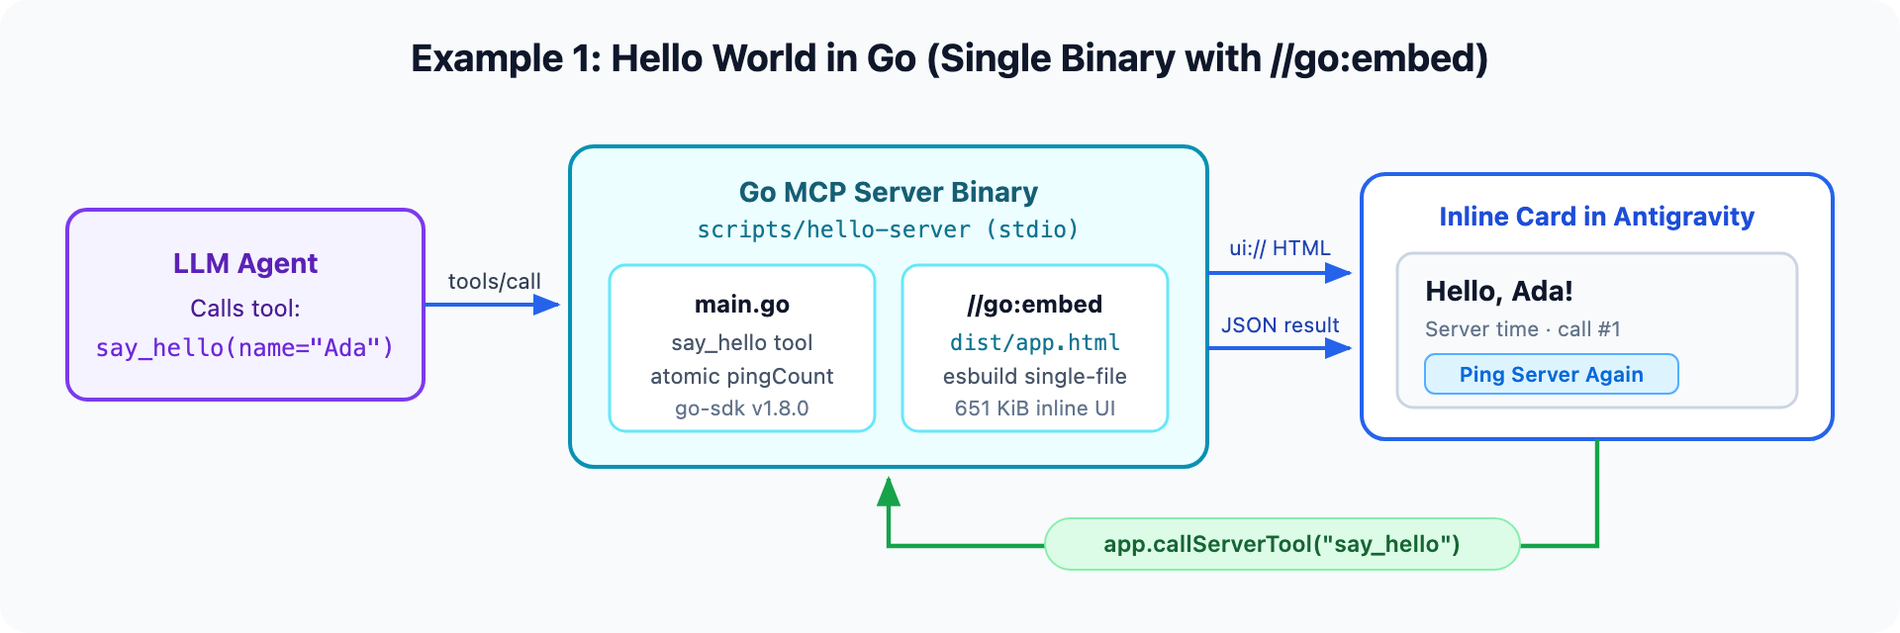
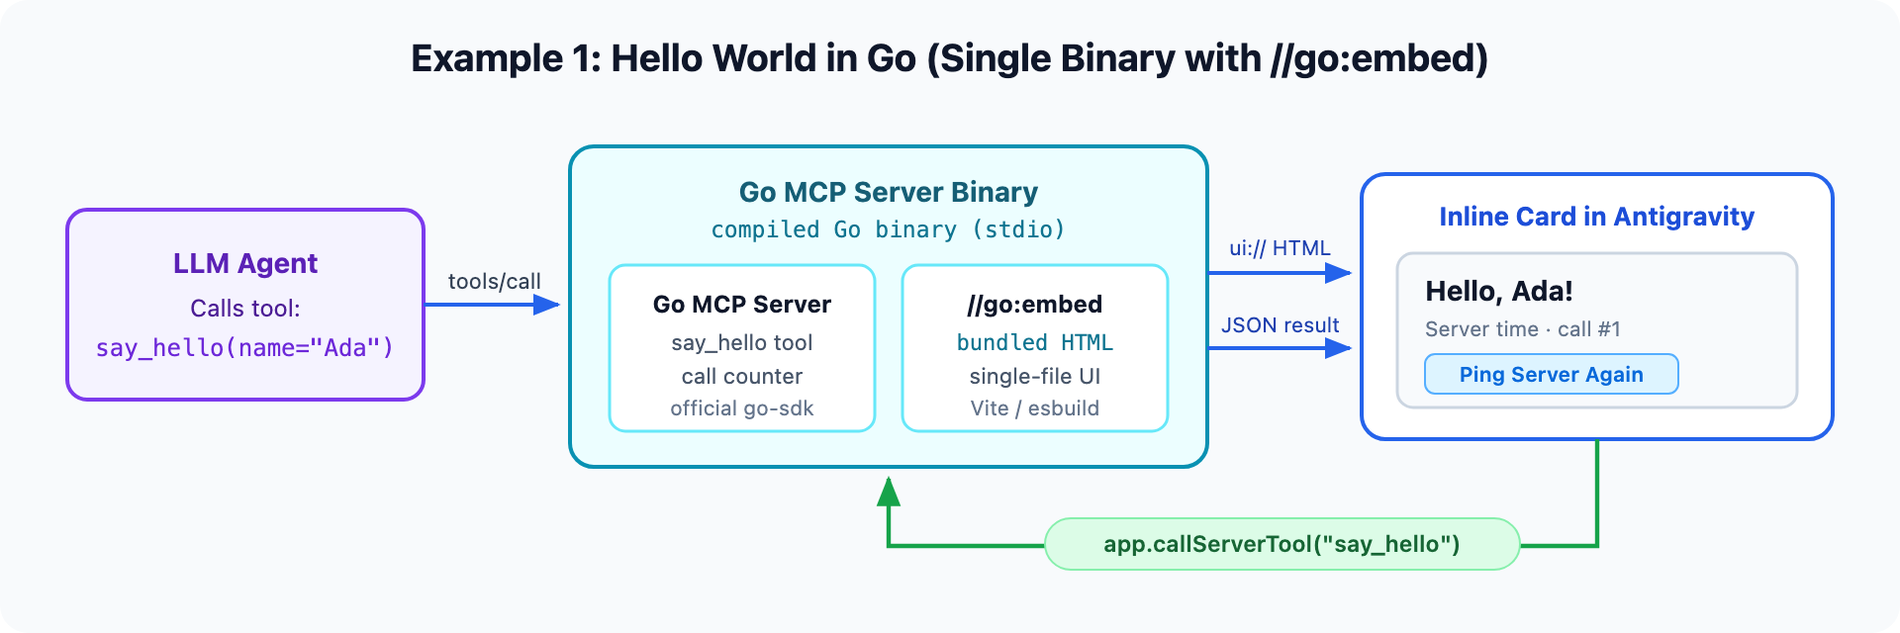
Make blog post and diagrams generic and prompt-first without repo references

diff --git a/BLOG_POST.md b/BLOG_POST.md
@@ -10,14 +10,7 @@ Suggested Titles:
 ![MCP Apps in Google Antigravity — Overview Infographic](images/00_mcp_apps_hero_infographic.png)
 *MCP Apps in Google Antigravity at a glance: how tools pair with ui:// views, what /mcp-app-development scaffolds, the two Go examples in this guide, and key rules to keep in mind.*
 
-> **No prior MCP Apps experience required.** This guide walks through the basics of the MCP Apps specification (SEP-1865), how the `/mcp-app-development` command works in Google Antigravity, and how to build, test, and package two inline MCP Apps in **Go**—starting with a small Hello World card and expanding it into an interactive checklist.
->
-> **Companion Repository:** All source code, tests, plugin manifests, and diagrams for this post live at [github.com/rominirani/antigravity-mcp-apps-guide](https://github.com/rominirani/antigravity-mcp-apps-guide).
-
-```bash
-git clone https://github.com/rominirani/antigravity-mcp-apps-guide.git
-cd antigravity-mcp-apps-guide
-```
+> **No prior MCP Apps experience required.** This guide walks through the basics of the MCP Apps specification (SEP-1865), how the `/mcp-app-development` command works in Google Antigravity, and how to scaffold, inspect, and install two inline MCP Apps in **Go**—starting with a small Hello World card and expanding it into an interactive checklist.
 
 ---
 
@@ -25,10 +18,10 @@ cd antigravity-mcp-apps-guide
 
 1. **[Why MCP Apps Exist](#1-why-mcp-apps-exist)** — Where text-only MCP tools run into friction, and how MCP Apps compare to plain tools and `/generative_ui`.
 2. **[MCP Apps Basics](#2-mcp-apps-basics)** — The four-part mental model behind every MCP App.
-3. **[Using `/mcp-app-development` in Antigravity](#3-using-mcp-app-development-in-antigravity)** — How the slash command scaffolds an MCP App for you, and why Go is a nice fit.
-4. **[Example 1: Hello World in Go (`01-hello-world`)](#4-example-1-hello-world-in-go)** — Scaffolding your first inline greeting card with a live button that calls back into your Go server.
-5. **[Example 2: Interactive Quick Checklist (`02-quick-checklist`)](#5-example-2-interactive-quick-checklist)** — Adding UI-only actions, server-side persistence, and a button that attaches checklist progress to your next prompt.
-6. **[Packaging & Iterating as an Antigravity Plugin](#6-packaging--iterating-as-an-antigravity-plugin)** — One Go-specific plugin config tip and a quick edit-rebuild loop.
+3. **[Using `/mcp-app-development` in Antigravity](#3-using-mcp-app-development-in-antigravity)** — How the slash command scaffolds an MCP App for you, why Go is a nice fit, and what to have installed first.
+4. **[Example 1: Hello World in Go](#4-example-1-hello-world-in-go)** — Scaffolding your first inline greeting card with a live button that calls back into your Go server.
+5. **[Example 2: Interactive Quick Checklist](#5-example-2-interactive-quick-checklist)** — Adding UI-only actions, server-side persistence, and a button that attaches checklist progress to your next prompt.
+6. **[Packaging & Iterating as an Antigravity Plugin](#6-packaging--iterating-as-an-antigravity-plugin)** — One Go-specific plugin config quirk to watch for and a quick edit-rebuild loop.
 7. **[Common Issues & Things to Try](#7-common-issues--things-to-try)** — A short troubleshooting table and a few small ideas to experiment with next.
 8. **[Going Deeper: Suggested Reading Order](#8-going-deeper-suggested-reading-order)** — Where to read next, in order, when you are ready to explore the rest of the MCP Apps standard.
 
@@ -94,15 +87,15 @@ By default, an MCP App renders **inline** right inside the chat stream in place 
 Go is a clean fit for local MCP App plugins:
 
 1. **Official Go SDK**: [`github.com/modelcontextprotocol/go-sdk`](https://github.com/modelcontextprotocol/go-sdk) infers tool input schemas straight from Go structs and automatically serializes your output struct for the UI.
-2. **Single-binary packaging with `//go:embed`**: Once the frontend is bundled into `dist/app.html`, `//go:embed dist/app.html` bakes it into your compiled Go binary—so users don't need Node.js or Python installed at runtime.
+2. **Single-binary packaging with `//go:embed`**: Once the frontend is bundled into a single HTML file, `//go:embed` bakes it straight into your compiled Go binary—so end users don't need Node.js or Python installed at runtime.
 
 ### Prerequisites
 
 Before running `/mcp-app-development`, make sure the following tools are installed on the machine running Antigravity so the agent can bundle, compile, and test what it generates:
 
 - **Google Antigravity App (`v2.34.0+`)** and the **`agy` CLI** — provides `/mcp-app-development`, renders inline MCP Apps, and validates/installs local plugins.
-- **Go (`1.25+`)** — compiles and tests the Go MCP servers. *(If you ask `/mcp-app-development` for a Node/TypeScript or Python server instead, install that runtime instead of Go.)*
-- **Node.js (`20+`) and `npm` (build-time only)** — needed on your development machine even for a Go MCP App so `esbuild` can bundle `ui/app.js` and `@modelcontextprotocol/ext-apps` into one self-contained `dist/app.html` file. Once `go build` embeds that HTML into the binary, Node.js is not required at runtime.
+- **Go (`1.24+`)** — compiles and tests the Go MCP servers. *(If you ask `/mcp-app-development` for a Node/TypeScript or Python server instead, install that runtime instead of Go.)*
+- **Node.js (`20+`) and `npm` (build-time only)** — needed on your development machine even for a Go MCP App so the generated build step (typically Vite + `vite-plugin-singlefile` or `esbuild`) can bundle your frontend code and `@modelcontextprotocol/ext-apps` into one self-contained HTML file. Once `go build` embeds that HTML into the binary, Node.js is not required at runtime.
 
 *(Python is not needed for the Go examples in this post.)*
 
@@ -110,9 +103,7 @@ Before running `/mcp-app-development`, make sure the following tools are install
 
 ## 4. Example 1: Hello World in Go
 
-> **Companion Code:** [`go-examples/01-hello-world/`](https://github.com/rominirani/antigravity-mcp-apps-guide/tree/main/go-examples/01-hello-world)
-
-Let's start with the simplest useful MCP App: **1 tool (`say_hello`)** and **1 embedded UI resource (`ui://hello-world/app.html`)**.
+Let's start with the simplest useful MCP App: **1 tool (`say_hello`)** linked to **1 embedded `ui://` HTML view**.
 
 When the agent calls `say_hello(name="Ada")`, Antigravity renders a themed greeting card inline showing the server timestamp and call count. Clicking **Ping Server Again** inside the card calls `say_hello` directly on the Go server, updating the timestamp and count without another LLM turn.
 
@@ -121,103 +112,76 @@ When the agent calls `say_hello(name="Ada")`, Antigravity renders a themed greet
 
 ### Step 1: Scaffold the App with `/mcp-app-development`
 
-Start by creating an empty folder (for example, `hello-mcp-app/`) and opening it as a project in the **Antigravity App**. Type `/` in the chat box, choose **`mcp-app-development`**, and describe what you want in plain language:
+Create an empty folder (for example, `hello-mcp-app/`) and open it as a project in the **Antigravity App**. Type `/` in the chat box, choose **`mcp-app-development`**, and describe what you want in plain language:
 
 ```text
 /mcp-app-development Build a simple Hello World MCP App in Go packaged as an Antigravity plugin. Add a say_hello tool that takes an optional name and renders an inline greeting card showing the server time, a call counter, and a "Ping Server Again" button that refreshes from the server.
 ```
 
-Notice you don't need to mention `ui://` URIs, MIME types, bundlers, or plugin manifest keys—the `/mcp-app-development` skill supplies those conventions automatically. Your generated file names or frontend bundler may differ slightly from the reference project in [`go-examples/01-hello-world/`](https://github.com/rominirani/antigravity-mcp-apps-guide/tree/main/go-examples/01-hello-world), which is completely fine—the MCP Apps wiring underneath is the same:
+Notice you don't need to mention `ui://` URIs, MIME types, bundlers, or plugin manifest keys—the `/mcp-app-development` skill supplies those conventions automatically.
 
-```text
-go-examples/01-hello-world/
-├── go.mod
-├── main.go               # Go MCP server (~115 lines) with //go:embed dist/app.html
-├── main_test.go          # In-memory MCP client/server test
-├── ui/
-│   ├── package.json      # @modelcontextprotocol/ext-apps + esbuild
-│   ├── app.js            # Vanilla JS frontend (~55 lines)
-│   └── build.mjs         # Bundles ui/app.js + CSS into ../dist/app.html
-├── plugin.json           # Antigravity plugin manifest
-├── mcp_config.json       # Launches the compiled Go binary
-└── assets/logo.svg       # Plugin icon
-```
+As it runs, Antigravity will scaffold the Go server, a frontend project (usually TypeScript with Vite + `vite-plugin-singlefile`, or Vanilla JS with `esbuild`), Go tests, `plugin.json`, and `mcp_config.json`—and will typically run the build, tests, and `agy plugin validate --strict .` for you. Exact folder layouts vary from run to run (for example, a standard `cmd/` + `internal/` Go layout with a `Makefile`, or a flatter single-file `main.go`), which is completely expected.
 
-### Step 2: What to Look For in `main.go`
+### Step 2: What to Verify in the Generated Go Server
 
-You don't need to write the boilerplate from scratch—just open the generated `main.go` (full file: [`go-examples/01-hello-world/main.go`](https://github.com/rominirani/antigravity-mcp-apps-guide/blob/main/go-examples/01-hello-world/main.go)) and verify the three MCP Apps wiring points:
+Rather than expecting a specific filename, look inside the generated Go server code (for example `internal/server/server.go` or `main.go`) and confirm the three MCP Apps wiring points are in place:
 
 ```go
-//go:embed dist/app.html
+// 1. Embed the compiled single-file HTML bundle inside the Go binary.
+//go:embed dist/index.html
 var embeddedAppHTML string
 
-// 1. Serve the bundled HTML as a ui:// resource with the MCP App MIME type.
+// 2. Expose it as a ui:// resource with the MCP App MIME type.
 server.AddResource(&mcp.Resource{
-	URI:      "ui://hello-world/app.html",
+	URI:      appURI, // e.g., "ui://hello-world/card.html"
 	MIMEType: "text/html;profile=mcp-app",
 }, readAppHTMLHandler)
 
-// 2. Link say_hello to that resource via _meta.ui.resourceUri.
+// 3. Link say_hello to that resource via _meta.ui.resourceUri.
 mcp.AddTool(server, &mcp.Tool{
 	Name: "say_hello",
-	Meta: mcp.Meta{"ui": map[string]any{"resourceUri": "ui://hello-world/app.html"}},
-}, func(ctx context.Context, req *mcp.CallToolRequest, in HelloInput) (*mcp.CallToolResult, HelloOutput, error) {
-	out := HelloOutput{Name: name, Greeting: greeting, ServerTime: now, PingCount: count}
-	res := &mcp.CallToolResult{Content: []mcp.Content{&mcp.TextContent{Text: summary}}}
-	return res, out, nil // Go SDK marshals `out` into structuredContent automatically
-})
+	Meta: mcp.Meta{"ui": map[string]any{"resourceUri": appURI}},
+}, sayHelloHandler)
 ```
 
-`CallToolResult.Content` provides the short plain-text fallback for the LLM and CLI clients, while the returned `HelloOutput` struct becomes `structuredContent` for the iframe.
+Inside the tool handler, `CallToolResult.Content` provides the short plain-text summary for the LLM and CLI clients, while the returned Go output struct is serialized automatically into `structuredContent` for the iframe.
 
-### Step 3: What to Look For in `ui/app.js`
+### Step 3: What to Verify in the Generated Frontend
 
-Similarly, in the generated frontend (full file: [`go-examples/01-hello-world/ui/app.js`](https://github.com/rominirani/antigravity-mcp-apps-guide/blob/main/go-examples/01-hello-world/ui/app.js)), the only MCP Apps–specific logic is connecting the `App` bridge in the right order:
+Next, look inside the generated frontend entry file (typically `ui/src/main.ts` or `ui/app.js`). Regardless of whether Antigravity chose TypeScript with Vite or Vanilla JS with `esbuild`, the MCP Apps bridge follows the same three-step sequence:
 
-```js
+```ts
 import { App, applyDocumentTheme, applyHostStyleVariables } from "@modelcontextprotocol/ext-apps";
 
 const app = new App({ name: "Hello MCP App", version: "1.0.0" }, {});
 
-// 1. Register handlers BEFORE calling app.connect().
-app.ontoolresult = (result) => render(result?.structuredContent);
-app.onhostcontextchanged = applyTheme;
+// 1. Register tool & theme listeners BEFORE calling app.connect().
+app.addEventListener("toolresult", (result) => render(result.structuredContent));
+app.addEventListener("hostcontextchanged", applyTheme);
 
 // 2. Call back into the Go server directly on button click.
 refreshBtn.addEventListener("click", async () => {
   const result = await app.callServerTool({ name: "say_hello", arguments: { name: currentName } });
-  render(result?.structuredContent);
+  render(result.structuredContent);
 });
 
-// 3. Complete the handshake and sync the host's light/dark theme.
+// 3. Complete the handshake and sync the host's Light/Dark theme.
 await app.connect();
 applyTheme(app.getHostContext());
 ```
 
-In the full file, `render()` writes values safely with `textContent` (never `innerHTML`), hides the refresh button if a host doesn't support tool callbacks, and [`ui/build.mjs`](https://github.com/rominirani/antigravity-mcp-apps-guide/blob/main/go-examples/01-hello-world/ui/build.mjs) uses `esbuild` to bundle everything into `dist/app.html`.
+*(Depending on the SDK style Antigravity picks, you may see `app.ontoolresult = ...` instead of `app.addEventListener("toolresult", ...)`—both work identically. Also check that DOM updates use `textContent` rather than `innerHTML` so user input is never interpreted as HTML.)*
 
-### Step 4: Build, Test & Try It in Antigravity
+### Step 4: Validate, Install & Try It in Antigravity
 
-Because the iframe UI runs in the browser and imports `@modelcontextprotocol/ext-apps` from npm, `npm` is used once at **build time** to bundle `ui/app.js` and its CSS into `dist/app.html`. Once `go build` embeds that file into `scripts/hello-server`, Node.js is no longer needed at runtime.
+In most runs, `/mcp-app-development` builds the single-file UI, compiles the Go binary, and runs the tests for you (often exposing `make build` / `make test` in a generated `Makefile`). From the project folder, confirm strict plugin validation and install the plugin locally:
 
 ```bash
-cd go-examples/01-hello-world
-
-# 1. Build-time only: bundle ui/app.js + @modelcontextprotocol/ext-apps into dist/app.html
-npm --prefix ui install
-npm --prefix ui run build
-
-# 2. Test and compile the standalone Go binary (embeds dist/app.html)
-go mod tidy
-go test -v ./...
-mkdir -p scripts && go build -o scripts/hello-server .
-
-# 3. Validate and install the Antigravity plugin
 agy plugin validate --strict .
 agy plugin install .
 ```
 
-You should see the Go test pass (`PASS`) and plugin validation print `✔ Validation passed`. Then open a chat in the **Antigravity App** and ask:
+Then open a chat in the **Antigravity App** and ask:
 
 ```text
 Greet Ada using the say_hello tool.
@@ -229,13 +193,11 @@ You should see the inline greeting card appear directly in chat, and clicking **
 
 ## 5. Example 2: Interactive Quick Checklist
 
-> **Companion Code:** [`go-examples/02-quick-checklist/`](https://github.com/rominirani/antigravity-mcp-apps-guide/tree/main/go-examples/02-quick-checklist)
-
 Once Hello World makes sense, a natural next question is: *how do I build an inline UI that manages real state and feeds updates back into my conversation?*
 
-Example 2 stays on the same **Go + `//go:embed`** stack and adds **three capabilities**:
+Example 2 stays on the same **Go + `//go:embed`** pattern and adds **three capabilities**:
 
-1. **UI-only tools (`visibility: ["app"]`)**: The model only sees `create_checklist`. Toggling or adding items stays hidden from the model while remaining callable directly from the card.
+1. **UI-only tools (`visibility: ["app"]`)**: The model only sees `create_checklist`. Actions like toggling, adding, removing, or reloading items stay hidden from the model while remaining callable directly from the card.
 2. **Server-side persistence (`PLUGIN_DATA`)**: Because browser storage in the iframe isn't permanent, the Go server writes every change immediately to Antigravity's per-plugin data directory (`PLUGIN_DATA`).
 3. **Attaching UI state to your next prompt (`updateModelContext`)**: Clicking **Attach Remaining Items to Prompt** puts a context pill on your next chat message so the agent knows which checklist items are done and which remain.
 
@@ -244,17 +206,17 @@ Example 2 stays on the same **Go + `//go:embed`** stack and adds **three capabil
 
 ### Step 1: Scaffold Quick Checklist with `/mcp-app-development`
 
-Open a fresh folder (for example, `quick-checklist/`) in the **Antigravity App** and describe the app naturally:
+Open a fresh empty folder (for example, `quick-checklist/`) in the **Antigravity App** and describe the app naturally:
 
 ```text
 /mcp-app-development Build an inline checklist MCP App in Go packaged as an Antigravity plugin. Let the agent create a checklist with a title and items; inside the card, let me check off items, add new ones, keep my progress across restarts, and click a button to attach the remaining items to my next chat prompt.
 ```
 
-Once Antigravity finishes scaffolding, walk through the two key additions it generated (full reference: [`go-examples/02-quick-checklist/`](https://github.com/rominirani/antigravity-mcp-apps-guide/tree/main/go-examples/02-quick-checklist)).
+Antigravity will typically generate one model-facing `create_checklist` tool, several `app_*` UI-only helper tools (for toggling, adding, removing, and reloading persisted checklist state after a restart), disk persistence under `PLUGIN_DATA`, and the bundled interactive UI.
 
-### Step 2: What to Look For in `main.go`
+### Step 2: What to Verify in the Generated Go Server
 
-In [`go-examples/02-quick-checklist/main.go`](https://github.com/rominirani/antigravity-mcp-apps-guide/blob/main/go-examples/02-quick-checklist/main.go), the model-facing tool points to `resourceUri`, while the UI-only helper tools set `visibility: ["app"]`:
+In the generated Go server code, look for the split between the model-facing tool (`resourceUri`) and the UI-only helper tools (`visibility: ["app"]`):
 
 ```go
 // Visible to the model: creates a checklist and opens the inline card.
@@ -265,50 +227,34 @@ mcp.AddTool(server, &mcp.Tool{
 
 // Hidden from the model in UI hosts; callable only from the checklist card.
 mcp.AddTool(server, &mcp.Tool{
-	Name: "app_toggle_item",
+	Name: "app_toggle_item", // exact helper names vary per run
 	Meta: mcp.Meta{"ui": map[string]any{"visibility": []string{"app"}}},
 }, toggleHandler)
 ```
 
-On startup, `main()` reads `os.Getenv("PLUGIN_DATA")` (set automatically by Antigravity to a writable folder outside your workspace) and persists every edit to `checklists.json` immediately.
+Also verify that the server reads Antigravity's persistent data directory—either via `os.Getenv("PLUGIN_DATA")` or a `--data-dir=${PLUGIN_DATA}` flag passed from `mcp_config.json`—and saves edits to disk immediately on every change.
 
-### Step 3: What to Look For in `ui/app.js`
+### Step 3: What to Verify in the Generated Frontend
 
-In [`go-examples/02-quick-checklist/ui/app.js`](https://github.com/rominirani/antigravity-mcp-apps-guide/blob/main/go-examples/02-quick-checklist/ui/app.js), clicking **Attach Remaining Items to Prompt** calls `app.updateModelContext()` with a plain-text summary (and clicking **Clear Context** passes an empty `content` array). The button is hidden automatically if the host doesn't advertise context support:
+In the generated UI code, look for the click handler that calls `app.updateModelContext()` with a plain-text summary of remaining items (and passes an empty `content: []` array to clear it), gated on `app.getHostCapabilities()?.updateModelContext`:
 
-```js
+```ts
 attachBtn.addEventListener("click", async () => {
-  const remaining = checklist.items.filter((i) => !i.done).map((i) => `- [ ] ${i.label}`);
-
   await app.updateModelContext({
-    content: [
-      {
-        type: "text",
-        text: `Checklist: ${checklist.title} (${checklist.doneCount}/${checklist.total} complete)\n` +
-              (remaining.length ? `Remaining:\n${remaining.join("\n")}` : "All items complete."),
-      },
-    ],
+    content: [{ type: "text", text: formatRemainingSummary(checklist) }],
   });
 });
 
-clearCtxBtn.addEventListener("click", () => app.updateModelContext({ content: [] }));
+clearBtn.addEventListener("click", () => app.updateModelContext({ content: [] }));
 ```
 
-### Step 4: Build, Test & Try It in Antigravity
+*(One subtle detail you may notice in the generated UI: because the sandbox's default CSP blocks `<form>` submissions, the input row typically uses a plain container with a `<button type="button">` and an `Enter` key listener rather than a `<form>` tag.)*
+
+### Step 4: Validate, Install & Try It in Antigravity
+
+Once Antigravity finishes building and testing the generated project, validate and install it from the project folder:
 
 ```bash
-cd go-examples/02-quick-checklist
-
-# 1. Build-time only: bundle the frontend UI into dist/app.html
-npm --prefix ui install
-npm --prefix ui run build
-
-# 2. Test and compile the standalone Go binary (embeds dist/app.html)
-go mod tidy
-go test -v ./...
-mkdir -p scripts && go build -o scripts/checklist-server .
-
-# 3. Validate and install the Antigravity plugin
 agy plugin validate --strict .
 agy plugin install .
 ```
@@ -319,7 +265,7 @@ Then try it in an Antigravity App conversation:
 Create a PR review checklist for this repository using create_checklist.
 ```
 
-Check off a couple of items in the inline card, click **Attach Remaining Items to Prompt**, and send a follow-up message—you will see the attached checklist summary appear as a context pill on your prompt.
+Check off a couple of items in the inline card, click the button to attach remaining items, and send a follow-up message—you will see the attached checklist summary appear as a context pill on your prompt.
 
 ---
 
@@ -329,14 +275,16 @@ Check off a couple of items in the inline card, click **Attach Remaining Items t
 
 ### Launching a Compiled Go Binary in `mcp_config.json`
 
-Antigravity expands `${PLUGIN_ROOT}` and `${PLUGIN_DATA}` inside `args`, `env`, and `cwd`—not inside `command`. If you put `"command": "${PLUGIN_ROOT}/scripts/hello-server"`, `agy plugin validate --strict` flags a warning. Invoke the binary via `"command": "env"` instead (and place binaries under `scripts/` so executable permissions are preserved):
+Antigravity expands `${PLUGIN_ROOT}` and `${PLUGIN_DATA}` inside `args`, `env`, and `cwd`—not inside `command`. If `mcp_config.json` puts `"command": "${PLUGIN_ROOT}/bin/my-server"`, `agy plugin validate --strict` flags a warning.
+
+To keep strict validation clean, launch your compiled Go binary through `args`—either with a small executable shell wrapper (using `exec` so stdio passes straight through) or via `"command": "env"`:
 
 ```json
 {
   "mcpServers": {
     "hello": {
-      "command": "env",
-      "args": ["${PLUGIN_ROOT}/scripts/hello-server"]
+      "command": "bash",
+      "args": ["${PLUGIN_ROOT}/scripts/launch.sh"]
     }
   }
 }
@@ -344,8 +292,8 @@ Antigravity expands `${PLUGIN_ROOT}` and `${PLUGIN_DATA}` inside `args`, `env`, 
 
 ### Quick Edit-Rebuild Loop
 
-- **Editing HTML/JS/CSS**: Re-run `npm --prefix ui run build`. If you set `HELLO_APP_HTML` (or `CHECKLIST_APP_HTML`) to point at `dist/app.html` during development, closing and reopening the card picks up the updated UI without recompiling Go or restarting the server.
-- **Editing Go server code**: Recompile (`go build -o scripts/hello-server .`), then restart the server from **Customizations > Installed > \<plugin\> > MCP > More actions (`⋮`) > Restart** in the Antigravity App.
+- **Editing the UI**: Re-run the generated UI build command (for example `make build`, or `npm run build` inside `ui/`). Many generated servers also support an environment variable override (such as `HELLO_APP_HTML`) pointing directly at the built HTML file on disk—when set, closing and reopening the card picks up UI edits without recompiling Go or restarting the server.
+- **Editing Go server code**: Recompile the binary (for example `make build` or `go build`), then restart the server from **Customizations > Installed > \<plugin\> > MCP > More actions (`⋮`) > Restart** in the Antigravity App.
 
 ---
 
@@ -356,18 +304,18 @@ Antigravity expands `${PLUGIN_ROOT}` and `${PLUGIN_DATA}` inside `args`, `env`, 
 | Symptom | Likely Cause | Fix |
 | :--- | :--- | :--- |
 | **Error card instead of UI** | Wrong MIME type or missing UI resource. | Return `text/html;profile=mcp-app` from `server.AddResource`. |
-| **Blank iframe** | `app.connect()` failed, or external scripts/styles were blocked by the sandbox. | Bundle JS and CSS inline into one HTML file (`dist/app.html`). |
-| **Card stays stuck on "Connecting..."** | Event handlers were registered after `await app.connect()`. | Register `ontoolresult` and `onhostcontextchanged` before `app.connect()`. |
+| **Blank iframe** | `app.connect()` failed, or external scripts/styles were blocked by the sandbox. | Bundle JS and CSS inline into a single self-contained HTML file. |
+| **Card stays stuck on "Connecting..."** | Event handlers were registered after `await app.connect()`. | Register `toolresult` / `ontoolresult` and `hostcontextchanged` before `app.connect()`. |
 | **Button callback fails** | Tool is hidden from the UI or belongs to another server. | Set `visibility: ["app"]` (or omit `visibility`) on the same MCP server. |
-| **Colors look wrong after Light/Dark toggle** | Host theme was only applied once at startup. | Apply host theme both after `connect()` and inside `onhostcontextchanged`. |
-| **`agy plugin validate --strict` warns on `command`** | `${PLUGIN_ROOT}` was placed in `command` instead of `args`. | Use `"command": "env"` and `"args": ["${PLUGIN_ROOT}/scripts/<binary>"]`. |
+| **Colors look wrong after Light/Dark toggle** | Host theme was only applied once at startup. | Apply host theme both after `connect()` and inside `hostcontextchanged`. |
+| **`agy plugin validate --strict` warns on `command`** | `${PLUGIN_ROOT}` was placed in `command` instead of `args`. | Launch the binary through `args` (e.g., `"command": "bash"` with a launcher script, or `"command": "env"`). |
 
 ### Things to Try Next
 
-1. **Add a delete button to Quick Checklist**: Ask `/mcp-app-development` to add an app-only delete action to [`go-examples/02-quick-checklist/`](https://github.com/rominirani/antigravity-mcp-apps-guide/tree/main/go-examples/02-quick-checklist) with a remove button next to each item.
+1. **Extend your checklist card**: Ask `/mcp-app-development` inside your checklist folder to add filtering (*All / Remaining / Completed*) or a clear-completed button backed by an app-only tool.
 2. **Send a follow-up prompt directly from the card**: Add an **Ask Agent About Remaining Items** button that uses `app.sendMessage()` to start a follow-up turn straight from the UI.
-3. **Build a Go environment card**: Start from `01-hello-world` and show `runtime.Version()`, `runtime.GOOS`, and `go.mod` dependencies inside a searchable inline table.
-4. **Scaffold a brand-new inline app**:
+3. **Build a Go environment card**: Ask `/mcp-app-development` to scaffold a small Go plugin showing `runtime.Version()`, `runtime.GOOS`, and `go.mod` dependencies inside a searchable inline table.
+4. **Scaffold a cron expression helper**:
    ```text
    /mcp-app-development Build an inline Go MCP App plugin that validates a cron expression, shows the next 5 run times, and lets me edit the expression live inside the card.
    ```
@@ -410,5 +358,3 @@ Keep these bookmarked when you need exact wire schemas, method signatures, or er
 9. **[SEP-1865 Formal Specification (`specification/2026-01-26/apps.mdx`)](https://github.com/modelcontextprotocol/ext-apps/blob/main/specification/2026-01-26/apps.mdx)** — The normative JSON-RPC 2.0 specification for every message, notification, capability flag, and display mode.
 10. **[`@modelcontextprotocol/ext-apps` API Reference](https://apps.extensions.modelcontextprotocol.io/api/)** (and **[Migrating to v2](https://github.com/modelcontextprotocol/ext-apps/blob/main/docs/migrate-to-2.md)**) — Complete frontend SDK reference for `App`, React hooks, theming helpers, and `downloadFile()`.
 11. **[MCP Go SDK (`pkg.go.dev/github.com/modelcontextprotocol/go-sdk/mcp`)](https://pkg.go.dev/github.com/modelcontextprotocol/go-sdk/mcp)** — Go API docs for `AddTool`, `AddResource`, `Meta`, `StructuredContent`, and transports.
-
-> **More examples in this repository:** If you want to explore side panels (`aux_pane`), full-page (`global`) views, and custom file viewers (`.archmap`) right away, the [companion GitHub repository](https://github.com/rominirani/antigravity-mcp-apps-guide) also includes an extended multi-surface guide ([`TUTORIAL.md`](https://github.com/rominirani/antigravity-mcp-apps-guide/blob/main/TUTORIAL.md)) with additional Python and TypeScript examples under [`examples/`](https://github.com/rominirani/antigravity-mcp-apps-guide/tree/main/examples).
